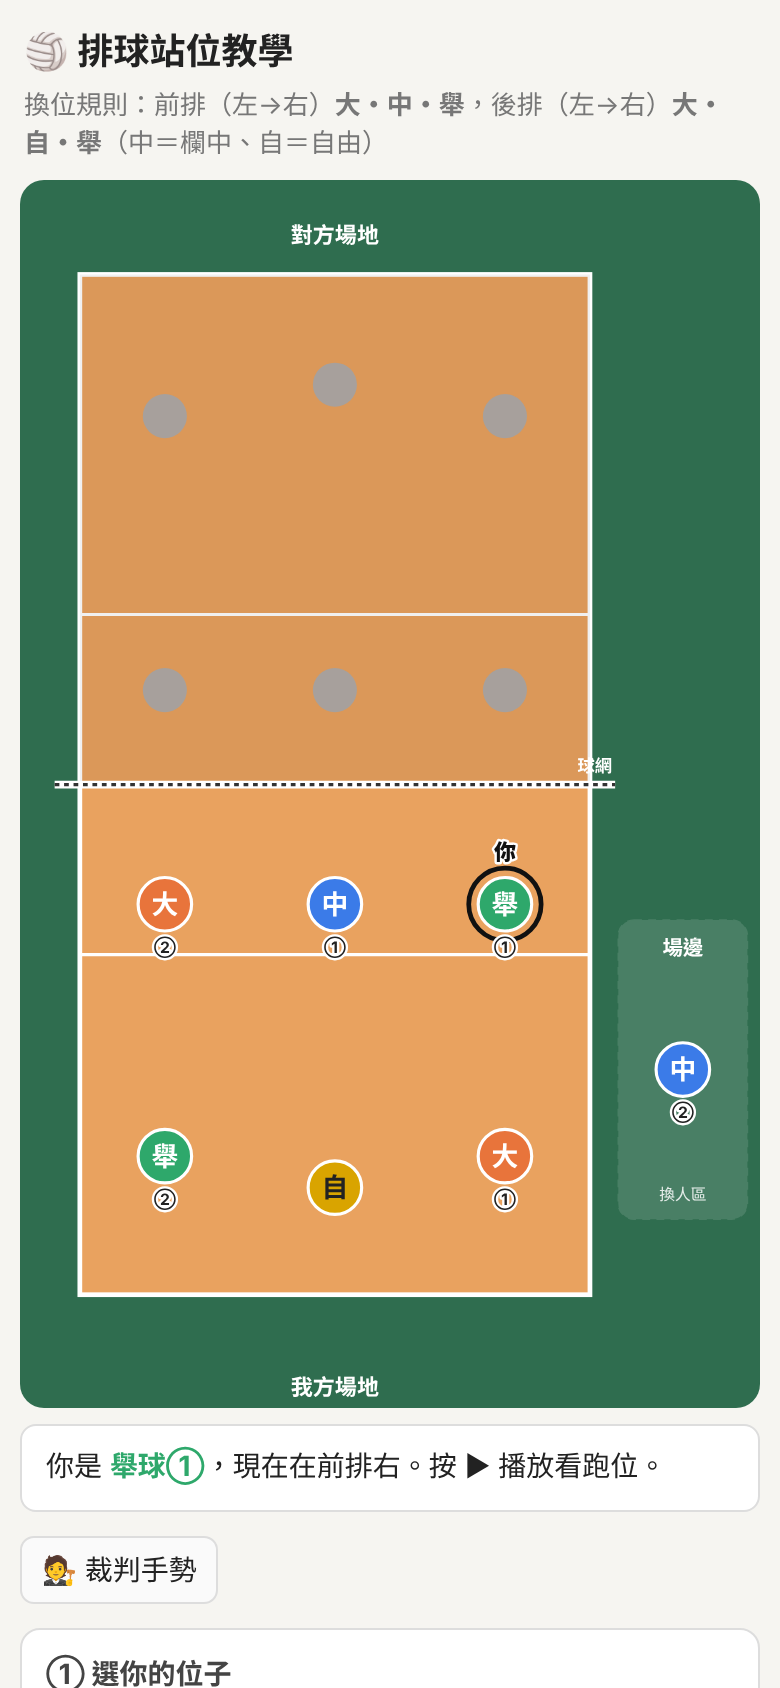
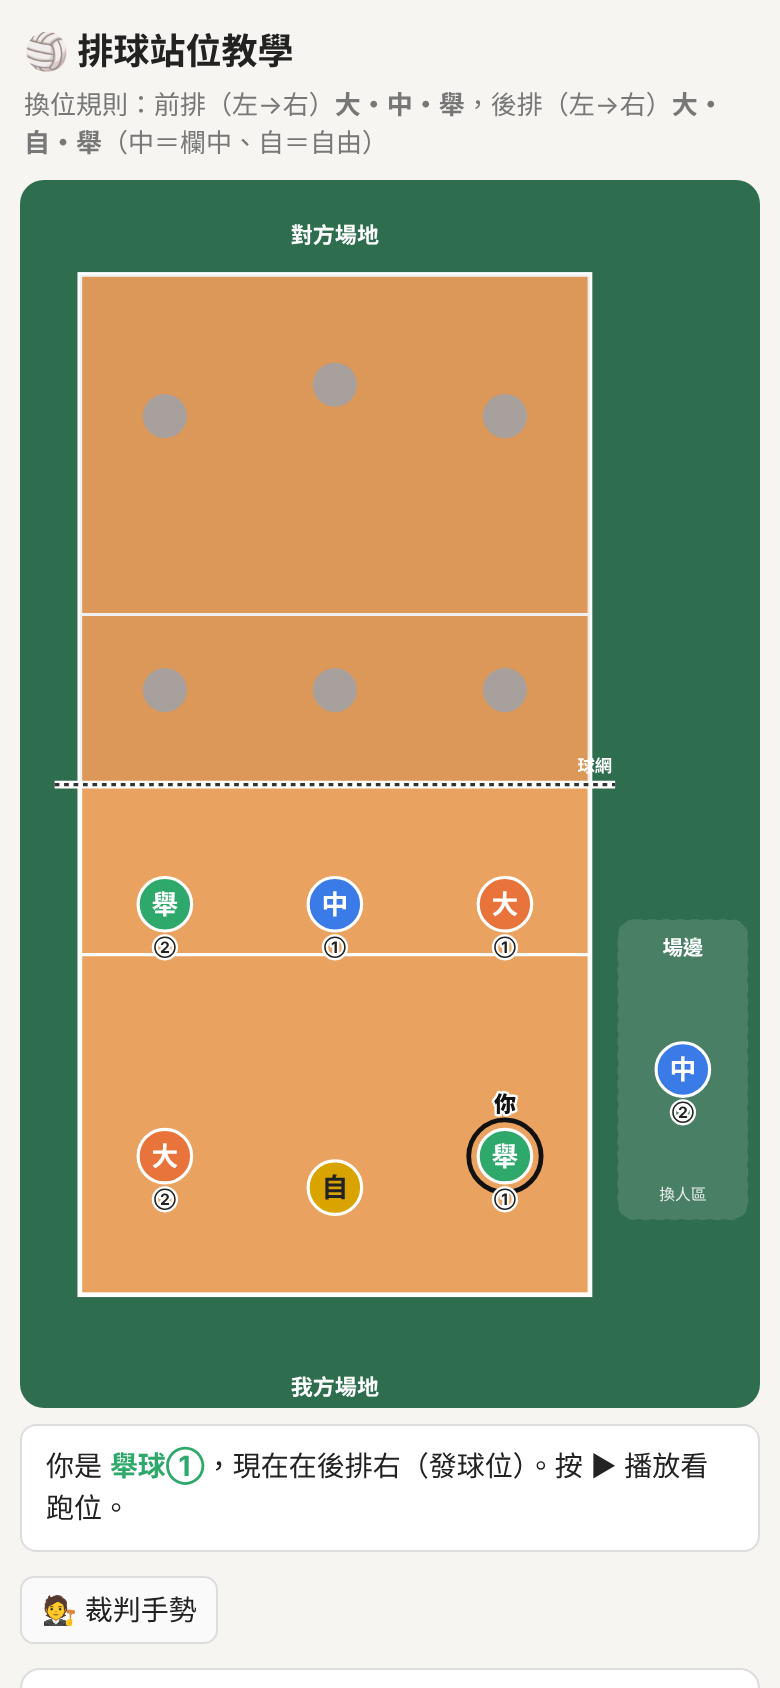
第1輪改為舉球發球，前排左到右 舉・欄中・大砲
Claude-Session: https://claude.ai/code/session_0111Jq42HSaSmuEgEPrctLA6

diff --git a/index.html b/index.html
@@ -145,7 +145,7 @@
         <span><span class="dot" style="background:#d9a400"></span> 自（自由）</span>
         <span><span class="dot" style="background:#2ea86b"></span> 舉（舉球）</span>
       </div>
-      <p class="note" style="margin:8px 0 0">輪轉順序：大砲①→舉球①→欄中①→大砲②→舉球②→欄中②（對角同職位），第 1 輪由大砲① 發球。欄中轉到後排就換自由上場、自己到場邊等；輪到欄中發球的那一輪，欄中自己發，自由這球打完再換。虛線是跑動路線，粗線是你。</p>
+      <p class="note" style="margin:8px 0 0">輪轉順序：舉球①→大砲①→欄中①→舉球②→大砲②→欄中②（對角同職位），第 1 輪由舉球① 發球，前排左→右是 舉・中・大。欄中轉到後排就換自由上場、自己到場邊等；輪到欄中發球的那一輪，欄中自己發，自由這球打完再換。虛線是跑動路線，粗線是你。</p>
     </div>
   </div>
 </div>
@@ -160,8 +160,8 @@
 <script>
 const NS = "http://www.w3.org/2000/svg";
 const P = [
-  {g:'大', name:'大砲①'}, {g:'舉', name:'舉球①'}, {g:'中', name:'欄中①'},
-  {g:'大', name:'大砲②'}, {g:'舉', name:'舉球②'}, {g:'中', name:'欄中②'},
+  {g:'舉', name:'舉球①'}, {g:'大', name:'大砲①'}, {g:'中', name:'欄中①'},
+  {g:'舉', name:'舉球②'}, {g:'大', name:'大砲②'}, {g:'中', name:'欄中②'},
   {g:'自', name:'自由'}
 ];
 const LIB = 6;

diff --git a/README.md b/README.md
@@ -15,8 +15,8 @@
 | **前排** | 大（大砲） | 中（欄中） | 舉（舉球） |
 | **後排** | 大（大砲） | 自（自由） | 舉（舉球） |
 
-- 輪轉順序：大砲① → 舉球① → 欄中① → 大砲② → 舉球② → 欄中②（對角同職位）
-- 第 1 輪由**大砲①**發球
+- 輪轉順序：舉球① → 大砲① → 欄中① → 舉球② → 大砲② → 欄中②（對角同職位）
+- 第 1 輪由**舉球①**發球，前排左→右是 舉球・欄中・大砲，發球後再換成 大・中・舉
 - 欄中轉到後排時換**自由**上場，欄中到場邊等；輪到欄中發球的那一輪由欄中自己發，打完再換自由
 
 ## 功能介紹
